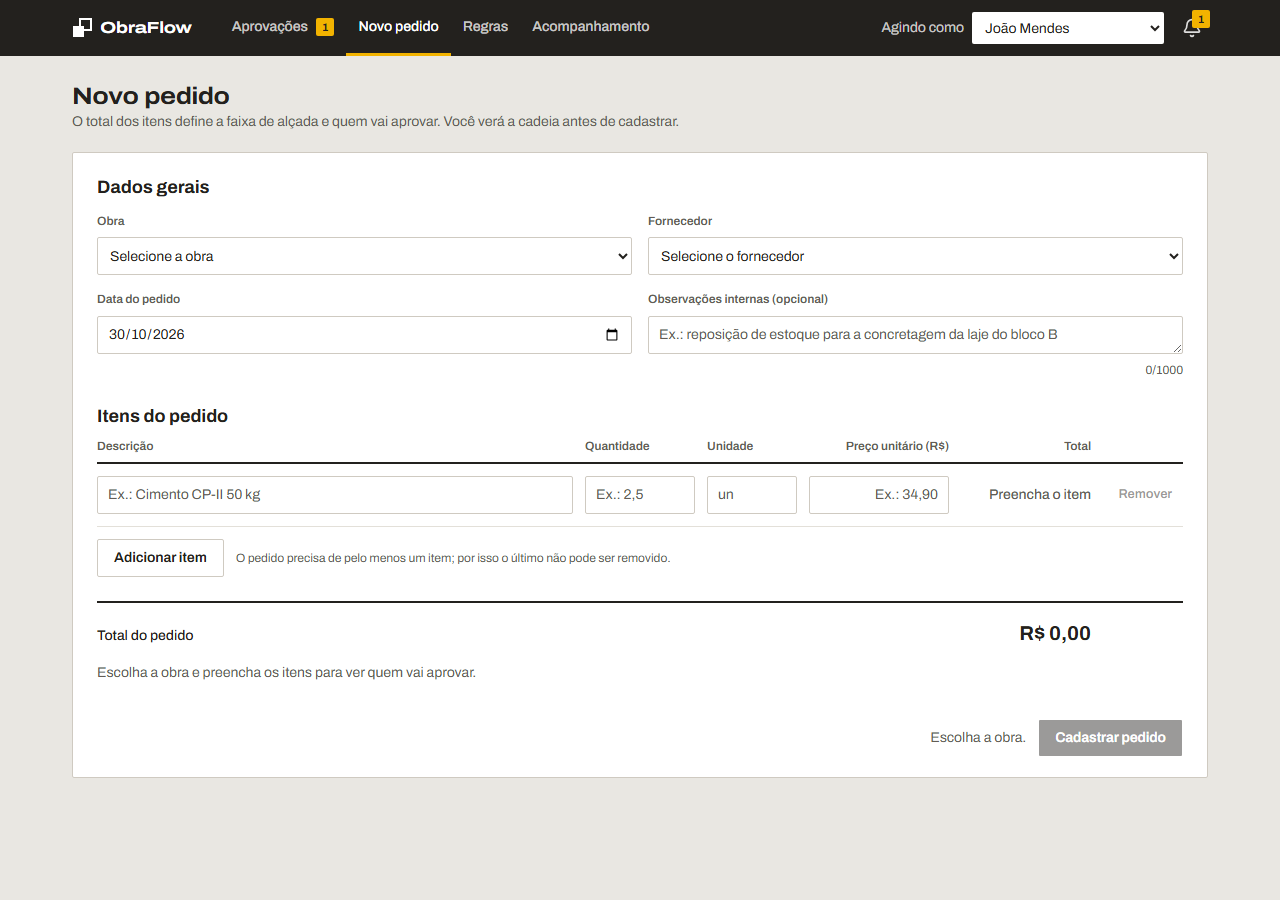
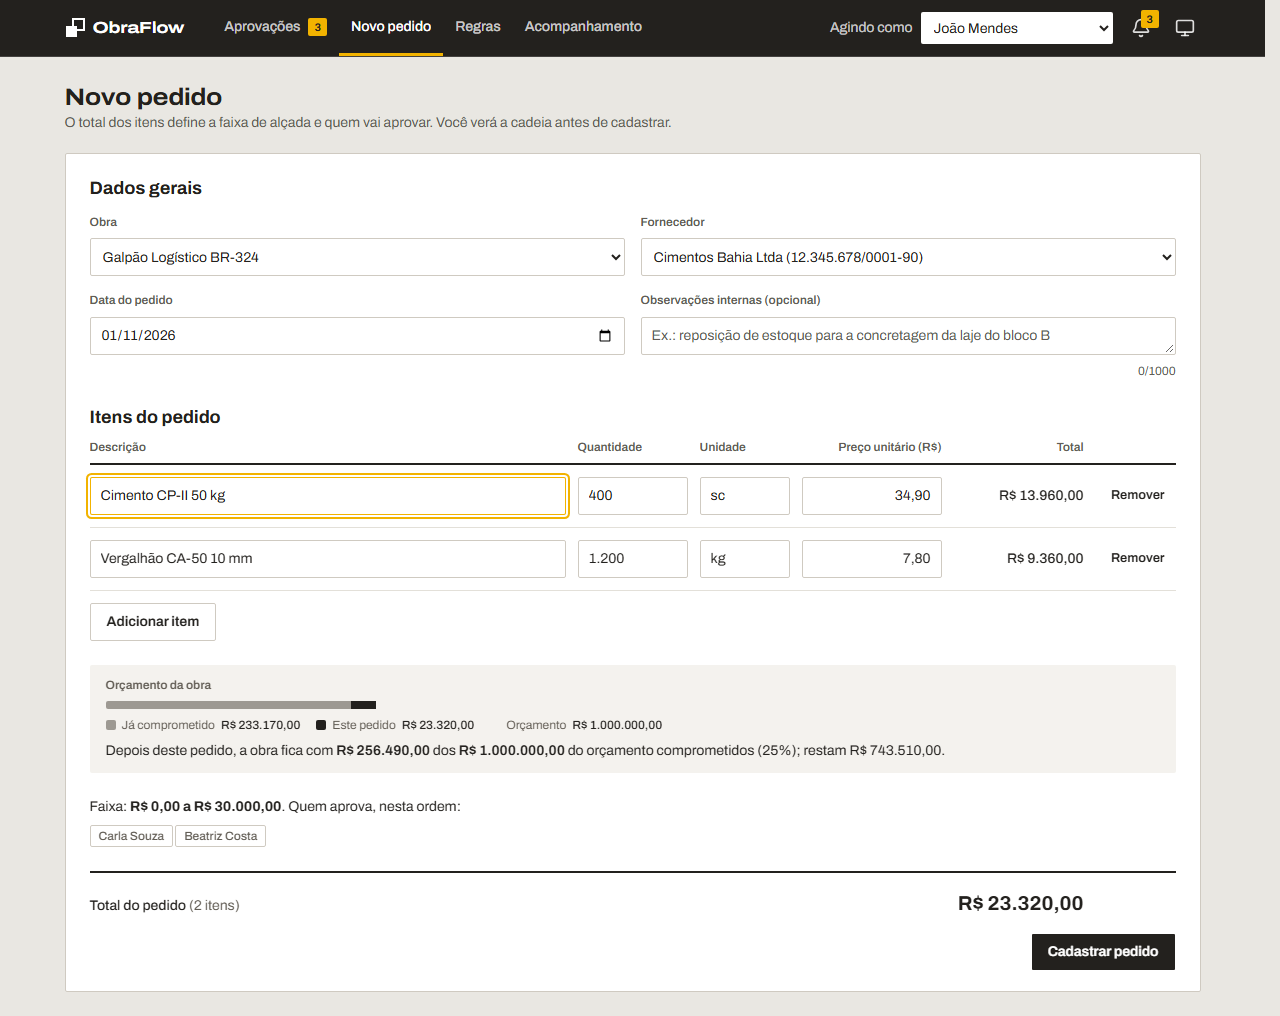
docs: capturas do README com o seed atual

Changed region(s): [[0.0, 0.0, 1.0, 0.9956], [0.7812, 0.6844, 0.8438, 0.7156]]

diff --git a/README.md b/README.md
@@ -8,13 +8,13 @@
 
 Capturas da demo publicada, agindo como João Mendes (aprovador do pedido #1). O amarelo aparece só onde ele precisa agir.
 
-| Aprovações: lista com filtros, a linha "Sua vez" e a cadeia de cada pedido            | Detalhe do pedido: faixa de decisão, itens e timeline da alçada                                                       |
-| ------------------------------------------------------------------------------------- | --------------------------------------------------------------------------------------------------------------------- |
-| ![Lista de aprovações](.github/screenshots/aprovacoes-1280.png)                       | ![Detalhe do pedido](.github/screenshots/pedido-1280.png)                                                             |
-| **Novo pedido**: itens em tabela, total e cadeia que será aplicada antes de cadastrar | **Regras de alçada**: faixas por obra, aprovadores herdados e simulador                                               |
-| ![Novo pedido](.github/screenshots/novo-pedido-1280.png)                              | ![Regras de alçada](.github/screenshots/regras-1280.png)                                                              |
-| **Acompanhamento**: por obra, fila por aprovador e tempo até decidir                  | **Celular (375px)**: lista em blocos e detalhe com itens compactos                                                    |
-| ![Acompanhamento](.github/screenshots/acompanhamento-1280.png)                        | ![Lista no celular](.github/screenshots/aprovacoes-375.png) ![Detalhe no celular](.github/screenshots/pedido-375.png) |
+| Aprovações: cards de resumo, abas por situação, as linhas "Sua vez" com a caixa para aprovar de uma vez e a cadeia de cada pedido | Detalhe do pedido: faixa de decisão, itens e timeline da alçada                                                       |
+| --------------------------------------------------------------------------------------------------------------------------------- | --------------------------------------------------------------------------------------------------------------------- |
+| ![Lista de aprovações](.github/screenshots/aprovacoes-1280.png)                                                                   | ![Detalhe do pedido](.github/screenshots/pedido-1280.png)                                                             |
+| **Novo pedido**: itens em tabela, impacto no orçamento da obra e a cadeia que será aplicada, antes de cadastrar                   | **Regras de alçada**: faixas por obra, aprovadores herdados, lacuna entre faixas e simulador                          |
+| ![Novo pedido](.github/screenshots/novo-pedido-1280.png)                                                                          | ![Regras de alçada](.github/screenshots/regras-1280.png)                                                              |
+| **Acompanhamento**: orçamento por obra, compras aprovadas por mês, fornecedores, fila por aprovador e tempo até decidir           | **Celular (375px)**: lista em blocos e detalhe com itens compactos                                                    |
+| ![Acompanhamento](.github/screenshots/acompanhamento-1280.png)                                                                    | ![Lista no celular](.github/screenshots/aprovacoes-375.png) ![Detalhe no celular](.github/screenshots/pedido-375.png) |
 
 ## Como rodar
 
